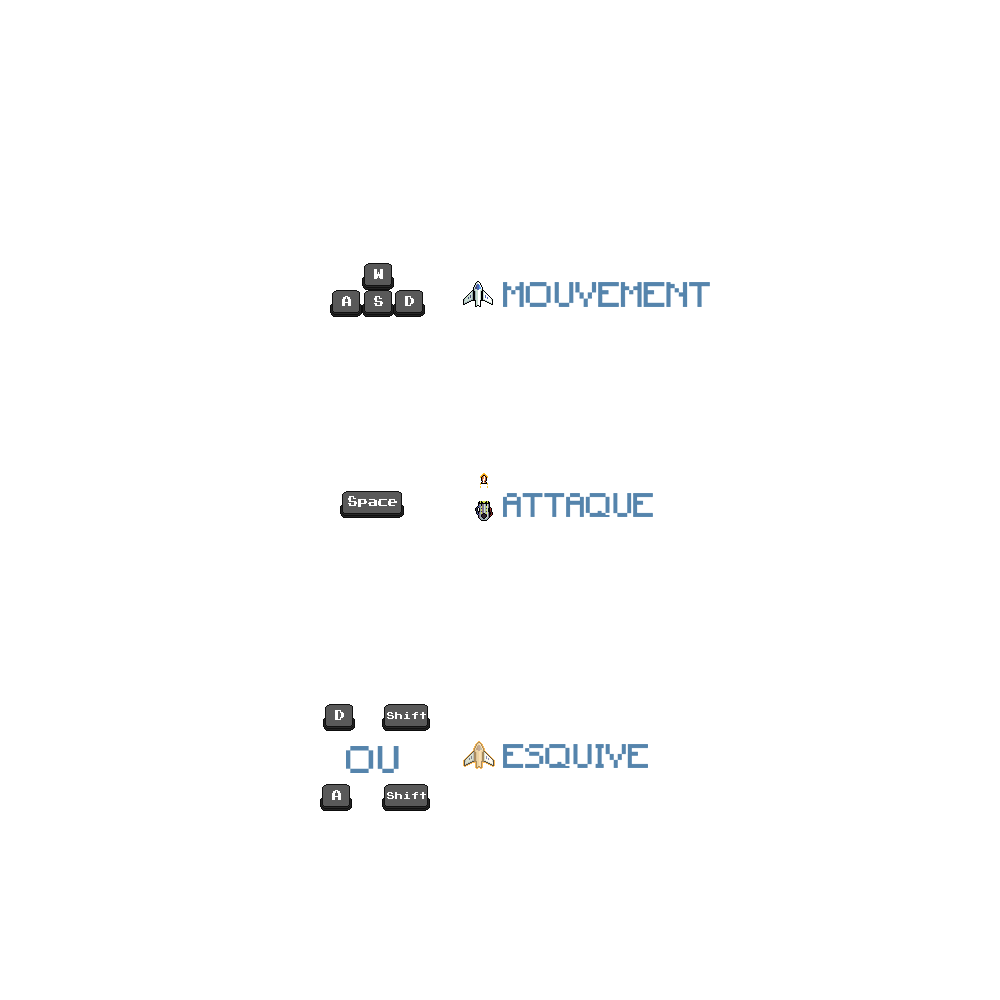
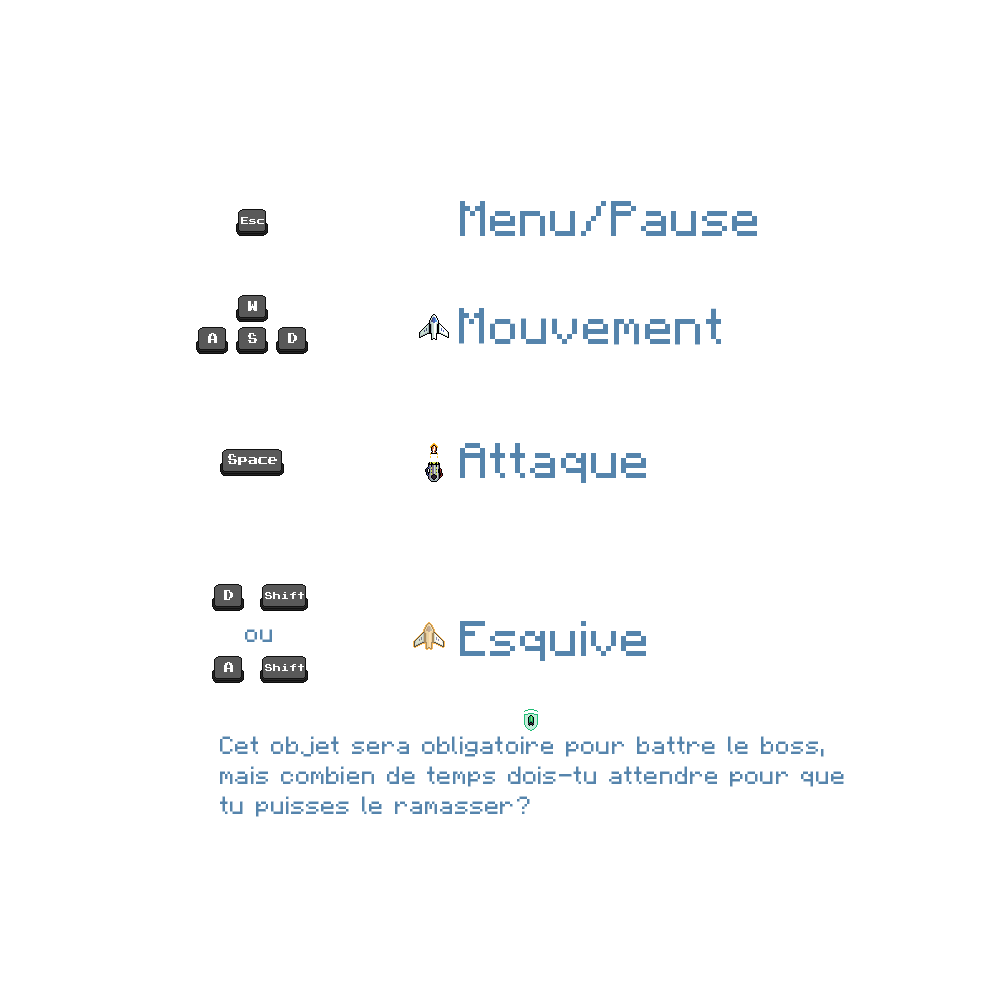
Changer guide et changer bouton de son

diff --git a/src/js/scenes/Accueil.js b/src/js/scenes/Accueil.js
@@ -11,6 +11,7 @@ class Accueil extends Phaser.Scene {
         this.load.image('InfoBtn', './assets/images/ui/Main_Menu/Info_BTN.png');
         this.load.image('faqBtn', './assets/images/ui/Buttons/BTNs/FAQ_BTN.png');
         this.load.image('soundBtn', './assets/images/ui/Buttons/BTNs/Sound_BTN.png');
+        this.load.image('soundBtnOff', 'assets/images/ui/Setting/Sound_BTN_OFF.png');
         this.load.image('logo', './assets/images/ui/Logo.png')
         this.load.image("titre", "assets/images/ui/Main_Menu/titre.png")
         this.load.audio("bgMusic", "assets/audios/music/music_menu.mp3")
@@ -43,8 +44,10 @@ class Accueil extends Phaser.Scene {
         hudContainer.add(faqBtn);
 
         //sound_BTN
-        let soundBtn = this.add.image(config.width / 2 + 580, config.height / 2 + 330, 'soundBtn').setOrigin(1, 1).setScale(0.3);
-        hudContainer.add(soundBtn);
+        this.soundBtn = this.add.image(config.width / 2 + 580, config.height / 2 + 330, 'soundBtn').setOrigin(1, 1).setScale(0.3).setVisible(true);
+        this.soundBtnOff = this.add.image(config.width / 2 + 580, config.height / 2 + 330, "soundBtnOff").setOrigin(1, 1).setScale(0.3).setVisible(false);
+        hudContainer.add(this.soundBtn);
+        hudContainer.add(this.soundBtnOff);
 
         this.bgMusic = this.sound.add('bgMusic', {
             mute: false,
@@ -58,7 +61,8 @@ class Accueil extends Phaser.Scene {
         startBtn.setInteractive();
         creditsBtn.setInteractive();
         faqBtn.setInteractive();
-        soundBtn.setInteractive();
+        this.soundBtn.setInteractive();
+        this.soundBtnOff.setInteractive();
 
         startBtn.on('pointerdown', () => {
             this.scene.start('jeu');
@@ -75,16 +79,26 @@ class Accueil extends Phaser.Scene {
             this.sound.stopAll();
         });
 
-        let musicPause = false
-        soundBtn.on("pointerdown", () => {
-            if (musicPause === false) {
-                this.bgMusic.stop();
-                musicPause = true;
-            } else {
-                this.bgMusic.play();
-                musicPause = false;
+        this.musicPause = false
+        this.soundBtn.on("pointerdown", () => {
+            if (this.musicPause === false) {
+                this.bgMusic.pause();
+                this.musicPause = true;
+                this.soundBtnOff.setVisible(true);
+                this.soundBtn.setVisible(false);
             }
+
         });
+        this.soundBtnOff.on("pointerdown", () => {
+            if (this.musicPause === true) {
+                this.bgMusic.resume();
+                this.musicPause = false;
+                this.soundBtnOff.setVisible(false);
+                this.soundBtn.setVisible(true);
+            }
+
+        });
+
     }
 
     update() {}

diff --git a/src/js/scenes/Guide.js b/src/js/scenes/Guide.js
@@ -31,7 +31,7 @@ class Guide extends Phaser.Scene {
     hudContainer.add(closeBtn);
     closeBtn.setInteractive();
 
-    let cmtJouer = this.add.image(config.width / 2, config.height / 2 - 45, "commentJouer").setScale(1.2);
+    let cmtJouer = this.add.image(config.width / 2, config.height / 2, "commentJouer").setScale(1);
 
     closeBtn.on("pointerdown", () => {
       this.scene.start("accueil");
